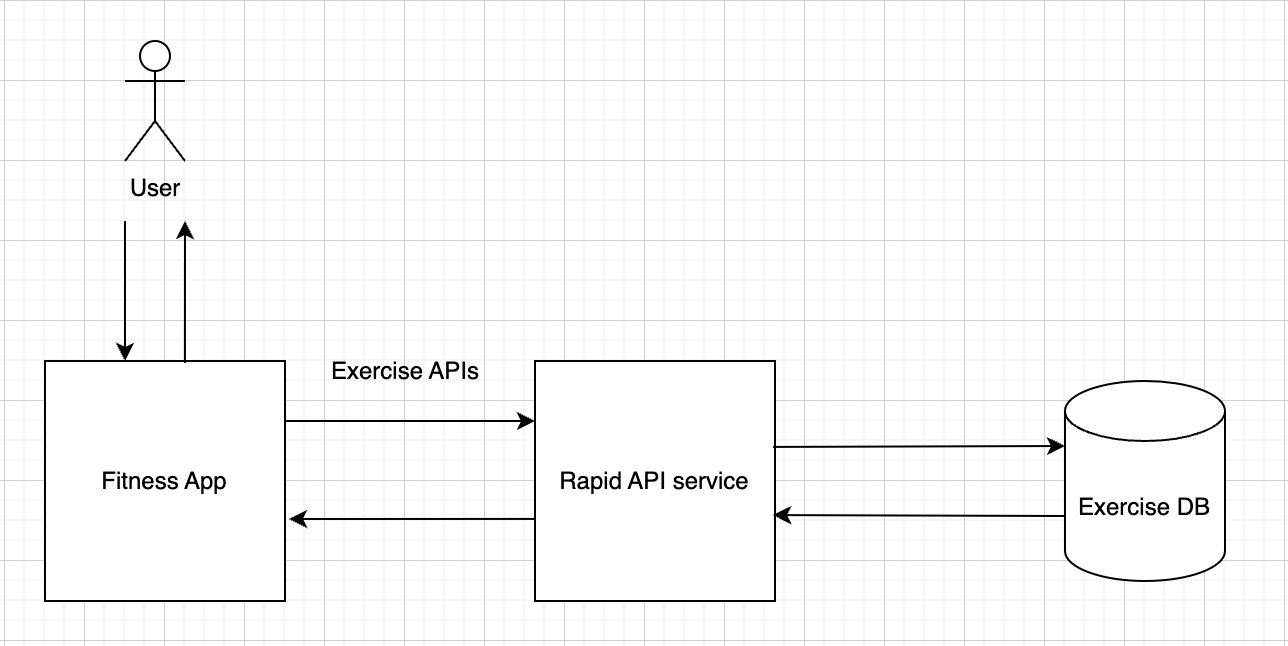
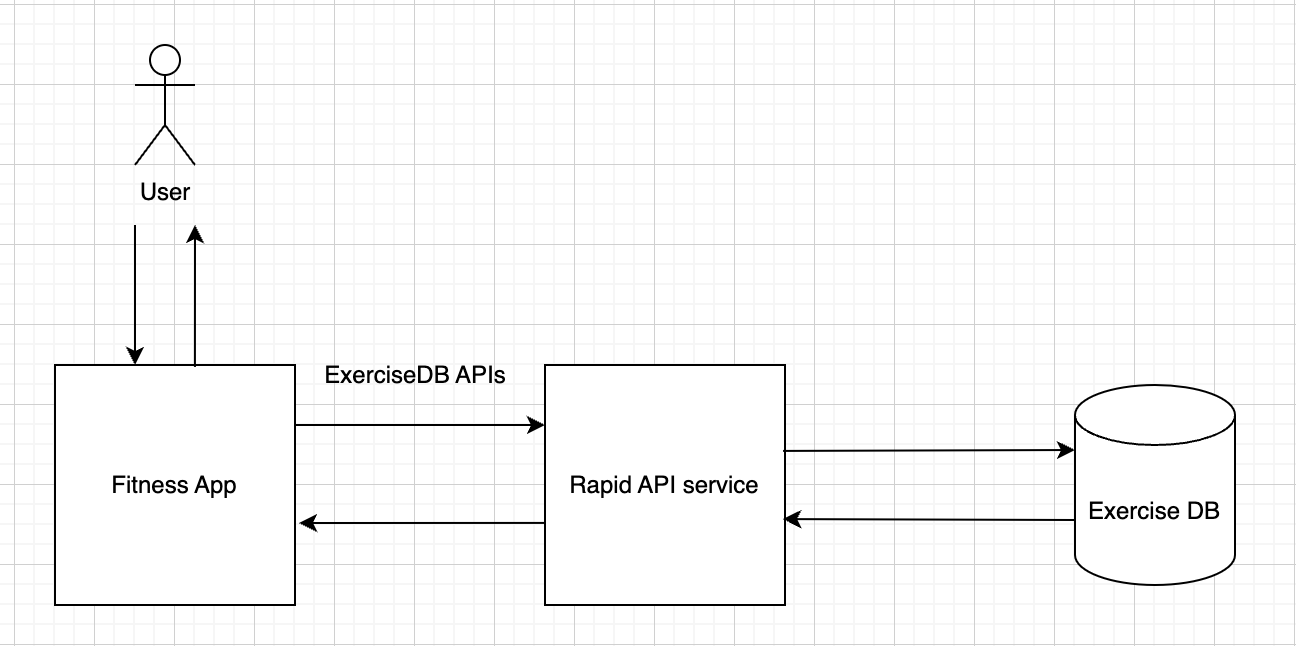
Updates to content and corrections

diff --git a/docs/user-persona.md b/docs/user-persona.md
@@ -5,10 +5,13 @@ nav_order: 10
 
 # User Persona and Audience Learning Curve
 {: .no_toc }
+The following is an exercise for creating a sample user persona and for plotting an audience learning curve for this user.
 
-This is a user who is a software engineer looking to integrate a fictional API analytics software product into their own system. \
-\
-“The seasoned software developer”
+---------------------------------------------------
+
+## "The seasoned software developer"
+
+This is a user who is a software engineer looking to integrate a fictional API analytics software product into their own system.
 
 <img src="../images/software-developer.jpg" alt="software developer" width="200"/>
 
@@ -17,10 +20,10 @@ Age: 30 years \
 Education: Bachelor’s degree \
 Location: San Francisco, CA
 
-## About
+### About
 This user persona, Rob, is a representative of the target audience for consuming the services offered by a fictional API analytics software product. He works as a senior software engineer who codes back end programs at a user-facing, consumer software company that helps users with housing services. He needs to utilize third-party software services like the fictional API analytics product to view API metrics and generate reports on the APIs he has developed. The fictional API analytics product provides its own APIs to be integrated with their customers’ systems.
 
-## Goals and Needs
+### Goals and Needs
 * To be able to find how to start using the services in the form of APIs from the analytics product.
 * To be able to find a list of APIs and their functions offered by the analytics product.
 * To know the versions and specifications of each API, their parameters, responses, error codes, and error messages.
@@ -28,27 +31,27 @@ This user persona, Rob, is a representative of the target audience for consuming
 * To be able to debug issues in an easy way.
 * To be able to access new release information in a timely manner.
 
-## Motivations
+### Motivations
 * To integrate the third-party software endpoints into his own service and start using the products with minimum hassle.
 * To be able to get reliable and accurate responses from the third-party software, with no downtime and latency.
 * To be able to debug any issues when integrating with the API analytics product.
 * To have the third-party software service work successfully with his own service to give desired results for achieving the goals of his own service.
 
-## Frustrations
+### Frustrations
 * Encountering disorganized documentation that’s hard to read and understand.
 * Spending time tracking missing information.
 * Wasting time with the basics, instead of getting task-specific information.
 * Viewing discrepancies in the documented APIs and actual functioning of the APIs.
 * Not being given enough troubleshooting related knowledge.
 
-## Everyday Activities
+### Everyday Activities
 * Working in an Agile environment with product managers and design/UX experts and frontend engineers.
 * Writing back end software code involving APIs.
 * Writing tests for the code.
 * Troubleshooting errors.
 * Analyzing system performance.
 
-## Device Usage
+### Device Usage
 * Laptop
 * Mobile phone
 

diff --git a/docs/user-guide.md b/docs/user-guide.md
@@ -1,38 +1,41 @@
 ---
 title: User Guide
-nav_order: 1
+nav_order: 3
 ---
 
 # User Guide
 {: .no_toc }
+This user guide is for free REST APIs for exercises from [ExerciseDB](https://rapidapi.com/justin-WFnsXH_t6/api/exercisedb).
 
-## What are ExerciseDB exercise APIs?
-ExerciseDB exercise APIs are freely available REST APIs from [rapidapi.com](https://rapidapi.com/search/Health%20and%20Fitness?sortBy=ByRelevance), providing access to a comprehensive database of more than 1300 exercises for different body parts.
+-----------------------
 
-## Where can exercise APIs be used?
-Fitness apps can integrate exercise APIs to help users find detailed and reliable exercise data that is customized to body parts, target muscles or exercise equipment.
+## What are ExerciseDB APIs?
+ExerciseDB APIs are freely available REST APIs from [rapidapi.com](https://rapidapi.com/search/Health%20and%20Fitness?sortBy=ByRelevance), providing access to a comprehensive database of more than 1300 exercises for different body parts.
 
-![Exercise API integration flow](../images/exercise-api-integration.png)
+## Where can ExerciseDB APIs be used?
+Fitness apps can integrate ExerciseDB APIs to help users find detailed and reliable exercise data that is customized to body parts, target muscles or exercise equipment.
+
+![ExerciseDB API integration flow](../images/exercise-api-integration.png)
 
 ## What kind of HTTP requests can be used?
 GET API requests are executed on the “exercises” resource.
 
-## How to access exercise APIs?
-[ExerciseDB](https://rapidapi.com/justin-WFnsXH_t6/api/exercisedb) provides information about all exercise APIs. All requests need a valid API key.
+## How to access ExerciseDB APIs?
+[ExerciseDB](https://rapidapi.com/justin-WFnsXH_t6/api/exercisedb) provides information about all APIs for exercises. All requests need a valid API key.
 
 ## How to get an API key?
 Refer to [Authentication and Authorization]({% link docs/api-documentation.md %}#authentication-and-authorization) to get an API key.
 
-## How to execute exercise APIs?
-Exercise APIs can be executed by using cURL or Postman.
+## How to execute ExerciseDB APIs?
+ExerciseDB APIs can be executed by using cURL or Postman.
 
-### Executing APIs using cURL
+### Executing ExerciseDB APIs using cURL
 
 ```
 curl --request GET --url 'https://exercisedb.p.rapidapi.com/exercises' --header 'x-rapidapi-key: <API_Key>'
 ```
 
-### Executing APIs using Postman
+### Executing ExerciseDB APIs using Postman
 Set the header key “x-rapidapi-key” with the API key value.
 
 ![Exercise API execution in Postman](../images/postman-exercise-api.png)

diff --git a/docs/release-notes.md b/docs/release-notes.md
@@ -3,13 +3,18 @@ title: Release Notes
 nav_order: 6
 ---
 
-# SimpliCompense Invoicing App changes
+# Release Notes
+The following release notes are for a fictitious invoicing software called "SimpliCompense".
+
+-------------------------
+
+## SimpliCompense Invoicing App changes
 {: .no_toc }
 
 April 15, 2024 \
 Latest Stable Version: 4.1
 
-## New Features
+### New Features
 * **Additional payment options.** \
     * In addition to Stripe, SimpliCompense now supports integration with SecurePay and PayPal.
 * **Invoice report customization.** \
@@ -20,11 +25,11 @@ Latest Stable Version: 4.1
 * **Quote to Invoice conversion.** \
     * Import quotes to generate invoices at the click of a button.
 
-## Bug Fixes + Improvements
+### Bug Fixes + Improvements
 * Improved error handling on removal of scheduled invoices.
 * Fixed standard message formatting on invoice templates.
 * Corrected timestamp on CSV files for exported invoices.
 
-## Deprecated features
+### Deprecated features
 * The `List Invoice` button on the invoice management tab is no longer available. Instead, the list of invoices is immediately updated and visible in the sidebar.
 * The email address list for sending invoices is no longer included when managing each invoice. It is still available as a separate menu item.

diff --git a/index.md b/index.md
@@ -13,7 +13,7 @@ Technical Writer, Experienced Software Engineer
 ## About Me
 {: .fs-7 .fw-300 }
 
-* I have a deep love for writing.
+* I possess a deep love for writing.
   {: .fs-5 .fw-300 }
 
 * I am passionate about structured writing and docs-as-code documentation approaches.
@@ -31,7 +31,7 @@ Technical Writer, Experienced Software Engineer
 * I have made open-source documentation contributions to GitHub projects, improving efficiency of user contributions toward these projects.
   {: .fs-5 .fw-300 }
 
-* I am a creative writer with online and print publications of short fiction and articles.
+* I am a creative writer with more than 20 online and print publications of short fiction and articles. Links to my online publications and my personal blog can found [here](https://deeptiwriting.wordpress.com/).
   {: .fs-5 .fw-300 }
 
 [Connect with me on LinkedIn](https://www.linkedin.com/in/deeptinalavade)

diff --git a/docs/api-documentation.md b/docs/api-documentation.md
@@ -1,14 +1,15 @@
 ---
 title: API Documentation
-nav_order: 2
+nav_order: 4
 ---
 
 # API Documentation
 {: .no_toc }
+Documentation of a free REST API for exercises from [ExerciseDB](https://rapidapi.com/justin-WFnsXH_t6/api/exercisedb).
 
-Documentation of a free REST exercise API from [ExerciseDB](https://rapidapi.com/justin-WFnsXH_t6/api/exercisedb).
+----------------------
 
-## Body part exercise API
+## Body part ExerciseDB API
 `/exercises/bodyPart/{bodyPart}` provides information about exercises for the specified body part.
 
 ## Authentication and authorization

diff --git a/docs/faqs.md b/docs/faqs.md
@@ -3,10 +3,12 @@ title: FAQs
 nav_order: 5
 ---
 
-# FAQs: SimpliCompense Invoicing Software
+# FAQs
 {: .no_toc }
+Answers to common questions about using "SimpliCompense", a fictitious invoicing software for creating and managing invoices.
 
-Answers to common questions about using SimpliCompense for creating and managing invoices.
+------------------
+
 
 ## How do I start using SimpliCompense for invoicing?
 To start using SimpliCompense for creating invoices, follow these steps:

diff --git a/docs/meeting-notes.md b/docs/meeting-notes.md
@@ -5,6 +5,9 @@ nav_order: 8
 
 # Meeting Notes
 {: .no_toc }
+These meeting notes are for an imaginary meeting between engineering team members working at a company that has developed for a fictitious invoicing software called "SimpliCompense".
+
+------------------------------------
 
 **Topic**: Engineering team meeting to discuss development and testing of priority features for SimpliCompense’s Inventory Management product.
 

diff --git a/docs/prd.md b/docs/prd.md
@@ -1,10 +1,13 @@
 ---
 title: Product Requirements Document
-nav_order: 3
+nav_order: 4
 ---
 
-# Product Requirements Document
+# Product Requirements Document (PRD)
 {: .no_toc }
+This PRD is to develop inventory management features for a fictitious invoicing software called "SimpliCompense".
+
+-----------------------------
 
 ## SimpliCompense’s Inventory Management product requirements document.
 

diff --git a/docs/github-contributions.md b/docs/github-contributions.md
@@ -1,10 +1,13 @@
 ---
 title: Open-source contributions
-nav_order: 4
+nav_order: 2
 ---
 
 # Open-source GitHub contributions
 {: .no_toc }
+Below are links for my documentation-related contributions to open-source GitHub projects.
+
+--------------------------------
 
 ## Metadata definitions
 [GitHub pull request](https://github.com/protontypes/open-sustainable-technology/pull/1025) \

diff --git a/docs/information-architecture.md b/docs/information-architecture.md
@@ -5,6 +5,8 @@ nav_order: 9
 
 # Information Architecture
 {: .no_toc }
-For [City Lights Bookstore](https://citylights.com/)
+The information architecture diagram below is for [City Lights Bookstore](https://citylights.com/).
+
+--------------------------------------
 
 ![Information Architecture diagram](../images/IA-bookstore.png)

diff --git a/docs/memo.md b/docs/memo.md
@@ -5,6 +5,9 @@ nav_order: 7
 
 # Memo
 {: .no_toc }
+The memo below is for all engineering managers working in a company that has developed a fictitious invoicing software called "SimpliCompense".
+
+-------------------------
 
 **TO**: All engineering managers working on SimpliCompense’s Inventory management product
 
